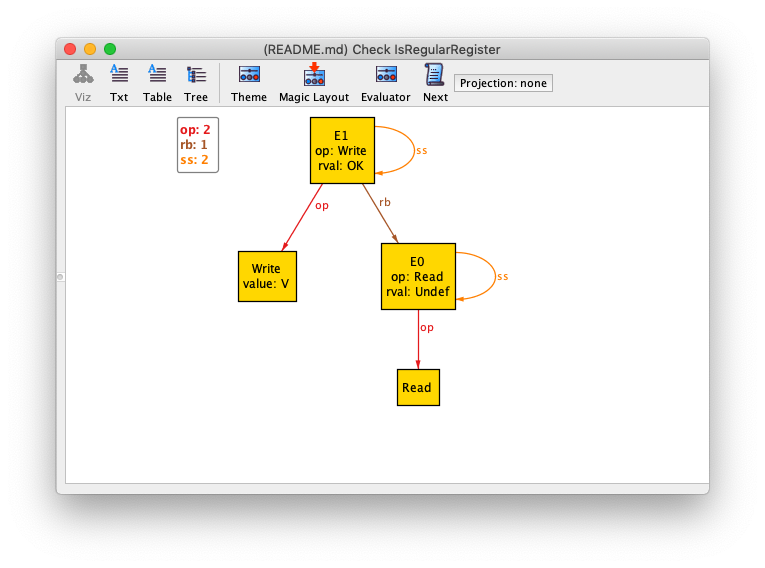
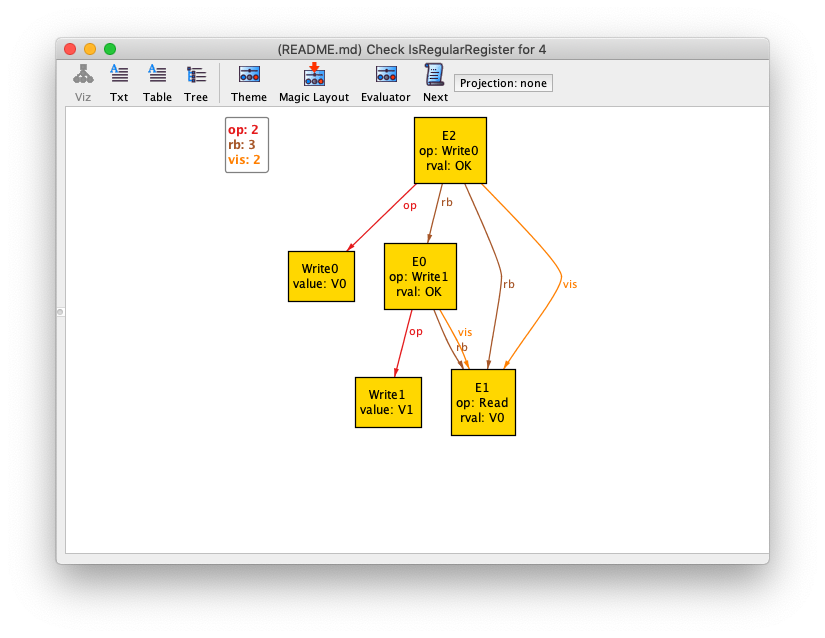
checkpoint

Changed region(s): [[0.0601, 0.0599, 0.932, 0.8979], [0.6614, 0.3891, 0.6915, 0.4789], [0.6314, 0.3592, 0.6614, 0.3891]]

diff --git a/README.md b/README.md
@@ -301,7 +301,7 @@ Next, we assert that the register is regular.
 
 
 ```alloy
-assert IsRegularRegister {
+pred RegularRegisterValidity[] {
 // A read that is not concurrent with a write returns the last value written
 all r : op.Read | 
     (no w : op.Write | areConcurrent[r,w]) => r.rval = lastValueWritten[r]
@@ -324,12 +324,16 @@ pred areConcurrent[e1,e2 : E] {
     e2->e1 not in rb
 }
 
+assert IsRegularRegister {
+    RegularRegisterValidity[]
+}
+
 ```
 
 We can then check to see if the register is regular:
 
 ```alloy
-// check IsRegularRegister
+check IsRegularRegister for 4
 ```
 
 It fails, with this counterexample:
@@ -377,7 +381,20 @@ fact WritesThatReturnBeforeReadsAreVisible {
 }
 ```
 
-And with that additional fact, Alloy doesn't find a counterexample.
+Yet another counter-example! Let's see what's violated here. 
+
+* one read, E1
+* two writes, E0, E2
+
+The rb ordering is:
+
+E2,E0,E1
+
+The vis relationships are:
+(E0,E1)
+(E2,E1)
+
+
 
 
 ## Is it an atomic register?
